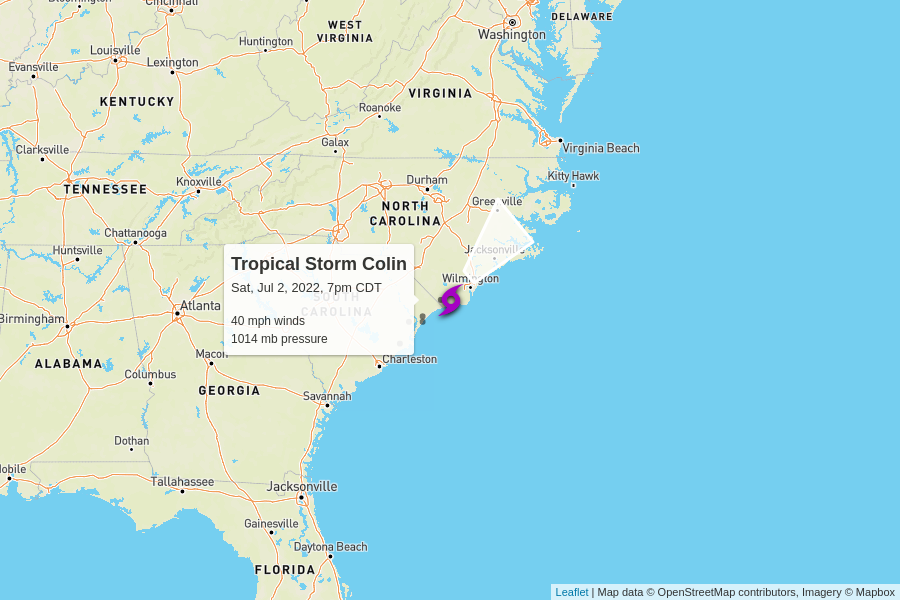
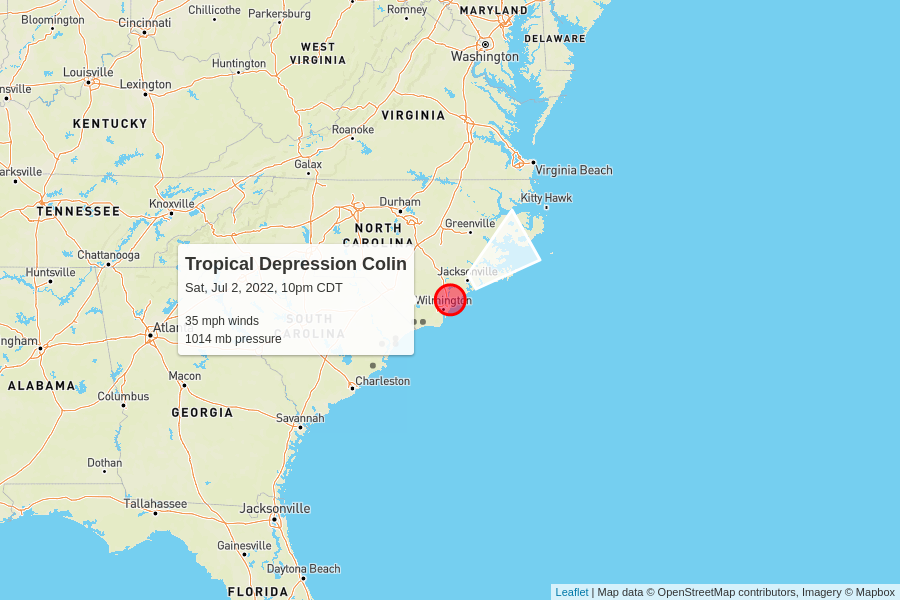
automatic update

Changed region(s): [[0.0, 0.0, 0.7156, 1.0]]

diff --git a/docs/index.html b/docs/index.html
@@ -99,8 +99,8 @@
       <tr>
         <td colspan="6" class="storm category-0" >
           <h2>
-            Tropical Storm Colin
-            <p class="updated">last updated <span data-time>2022-07-03T00:00:00.000Z</span></p>
+            Tropical Depression Colin
+            <p class="updated">last updated <span data-time>2022-07-03T03:00:00.000Z</span></p>
           </h2>
         </td>
       </tr>
@@ -115,12 +115,12 @@
       </tr>
       <tr>
         <td class="spacer"></td>
-        <td>40 mph</td>
+        <td>35 mph</td>
         <td>1014 mb</td>
         <td>
           7 mph to the northeast
           <br/>
-          <span style="display: inline-block; font-size: 1.5em; transform: rotate(45deg);">↑</span>
+          <span style="display: inline-block; font-size: 1.5em; transform: rotate(55deg);">↑</span>
         </td>
         <td><a href="https://raw.githubusercontent.com/mgwalker/atlantic-hurricanes/main/data/csv/AL032022.csv">AL032022.csv</a></td>
         <td><a href="https://www.nhc.noaa.gov/archive/2022/COLIN.shtml?">NHC advisories</a></td>
